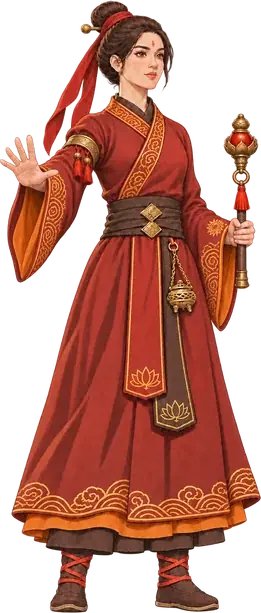
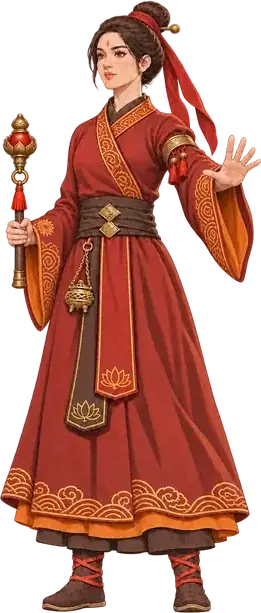
Hà Vân: lật tranh ra chiêu để bàn tay xòe hướng về bên phải

diff --git a/src/app/game/stage/rigs.ts b/src/app/game/stage/rigs.ts
@@ -2030,8 +2030,9 @@ const HA_VAN: WarriorRig = {
     // Tranh gốc quay mặt sang trái; đã lật ngang tệp để nhân vật phe trái chĩa trượng về phía đối thủ (tọa độ 1024 - x).
     attack: { name: "pose-attack", texScale: 0.4, origin: { x: 45, y: 130 },
       anchor: { x: 514, y: 1444 }, scale: 1, burst: { x: 959, y: 300 } },
-    cast: { name: "pose-cast", texScale: 0.4, origin: { x: 158, y: 1 },
-      anchor: { x: 493, y: 1533 }, scale: 1, burst: { x: 215, y: 400 } },
+    // Đã lật ngang tệp để bàn tay xòe hướng về phía đối thủ (tọa độ 1024 - x cũ).
+    cast: { name: "pose-cast", texScale: 0.4, origin: { x: 214, y: 1 },
+      anchor: { x: 531, y: 1533 }, scale: 1, burst: { x: 809, y: 400 } },
     ultimate: { name: "pose-ultimate", texScale: 0.4, origin: { x: 43, y: 7 },
       anchor: { x: 473, y: 1527 }, scale: 1, burst: { x: 990, y: 345 } },
   },

diff --git a/docs/06-art/prompts/chan-dung-lich-su.md b/docs/06-art/prompts/chan-dung-lich-su.md
@@ -198,7 +198,7 @@ Mỗi tranh ra chiêu có tọa độ chỉnh tay trong `HA_VAN` (`src/app/game/
 
 **Hình động đứng đã đổi theo phong cách mới (09/11/2026):** ảnh chuẩn đứng của Shan được tách lớp bằng code (thân đã xóa trượng, nắm tay và bàn tay buông rồi vá phần vải phía sau; lớp `sword` là trượng ngắn, `arm` là nắm tay, `armR` là bàn tay buông, `head` là đầu). Các lớp khớp hoàn toàn khi ghép lại. Tọa độ mới trong `HA_VAN` (`rigs.ts`); trượng và nắm tay xoay quanh cổ tay (242, 603). Tới đây cả hình động lẫn tranh ra chiêu của Hà Vân đã cùng phong cách. Dải lụa đỏ trên tóc là lớp riêng (`ribbon`, vẽ sau thân), bay theo gió từ chỗ buộc ở búi tóc (gió trục dọc, biên độ 9); thân đã xóa dải lụa và vá lại chỗ nó phủ lên vai.
 
-**Hướng tranh ra đòn:** nhân vật phe trái đứng quay mặt sang phải, các tranh `attack`, `cast`, `ultimate` phải hướng về bên phải (phe phải được lật tự động). Bản `pose-attack` đầu quay sang trái nên đã **lật ngang tệp** (tọa độ trong `HA_VAN` là 1024 trừ x cũ). Khi tạo tranh mới, ghi rõ `facing right` trong dòng dáng. `portrait.webp` của Hà Vân (192×192, nền trong suốt) đã cắt lại từ ảnh chuẩn.
+**Hướng tranh ra đòn:** nhân vật phe trái đứng quay mặt sang phải, các tranh `attack`, `cast`, `ultimate` phải hướng về bên phải (phe phải được lật tự động). Bản `pose-attack` và `pose-cast` đầu quay về trái nên đã **lật ngang tệp** (tọa độ trong `HA_VAN` là 1024 trừ x cũ); sau khi lật, tranh ra chiêu có bàn tay xòe ở bên phải nhưng mặt hơi quay trái, nên nếu tạo lại hãy ghi `palm pushed forward to the right, facing right`. Khi tạo tranh mới, ghi rõ `facing right` trong dòng dáng. `portrait.webp` của Hà Vân (192×192, nền trong suốt) đã cắt lại từ ảnh chuẩn.
 
 ### 9.3 Khối phong cách toàn thân (biến thể của khối bản 2)
 
